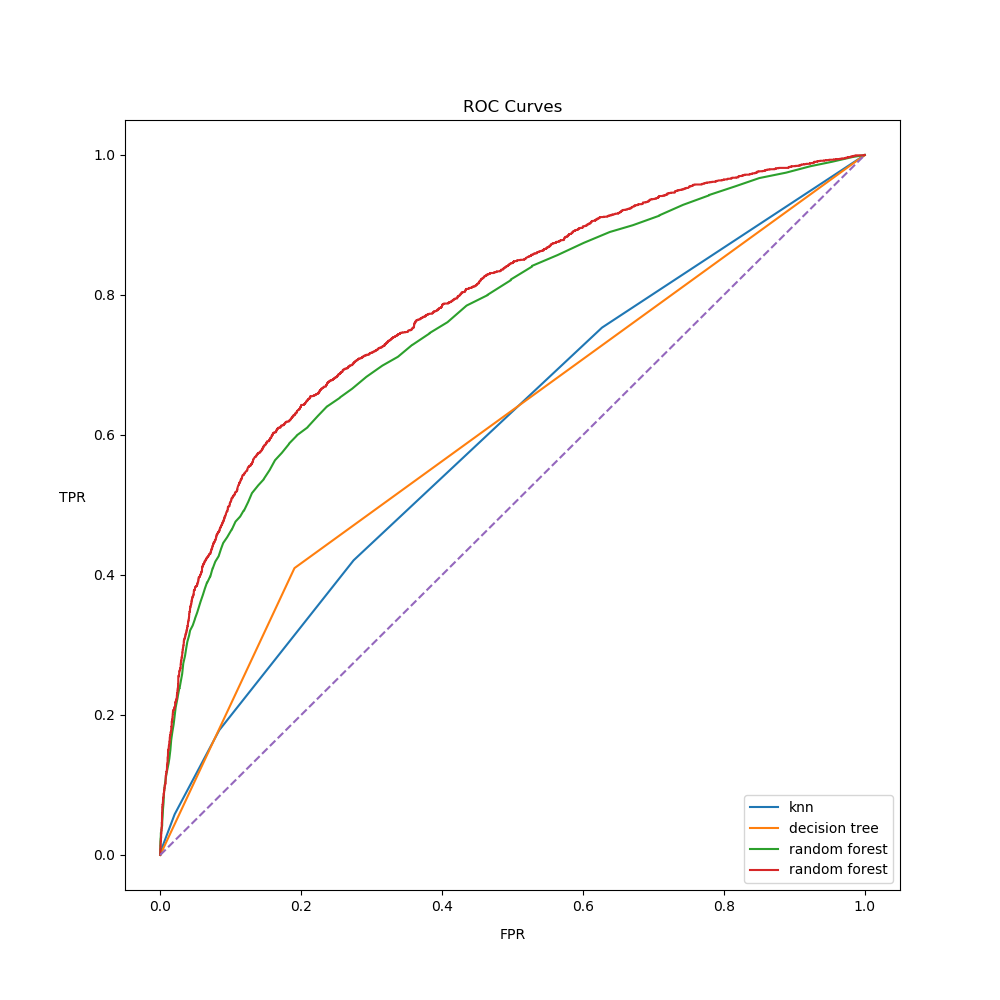
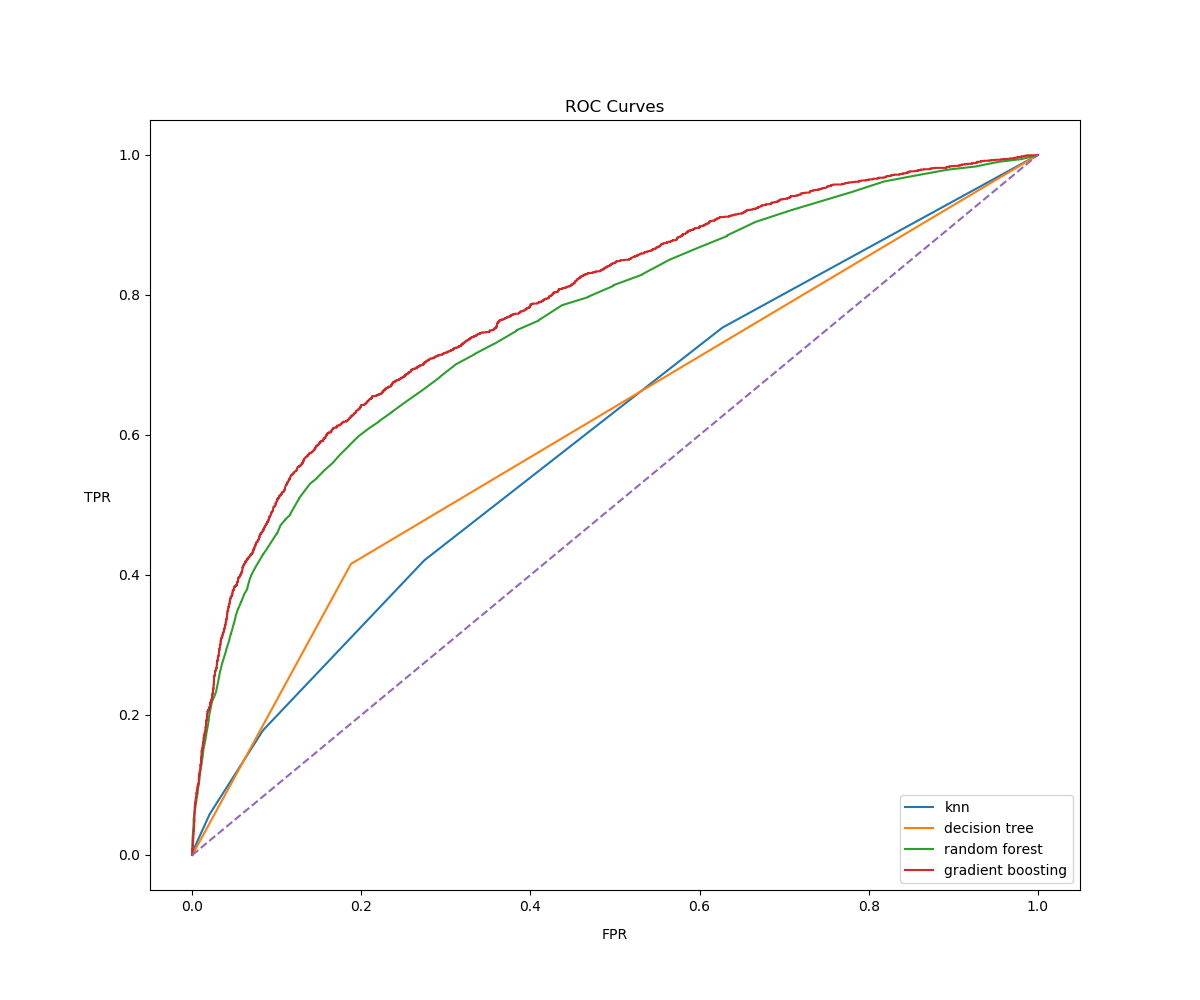
happy new year

diff --git a/project3/roc_auc.py b/project3/roc_auc.py
@@ -86,12 +86,12 @@ print('AUC SCORES',
 'GRAD:',grad_auc)
 
 
-pylab.figure(figsize=(10,10))
+pylab.figure(figsize=(12,10))
 pylab.plot(fpr_knn, tpr_knn, label='knn')
 #pylab.plot(fpr_svm, tpr_svm, label='svm-lin')
 pylab.plot(fpr_tree, tpr_tree, label='decision tree')
 pylab.plot(fpr_rf, tpr_rf, label='random forest')
-pylab.plot(fpr_gb, tpr_gb, label='random forest')
+pylab.plot(fpr_gb, tpr_gb, label='gradient boosting')
 pylab.plot([0,1],[0,1], linestyle='dashed')
 pylab.xlabel('FPR', labelpad=10)
 pylab.ylabel('TPR',rotation=0, labelpad=15)
